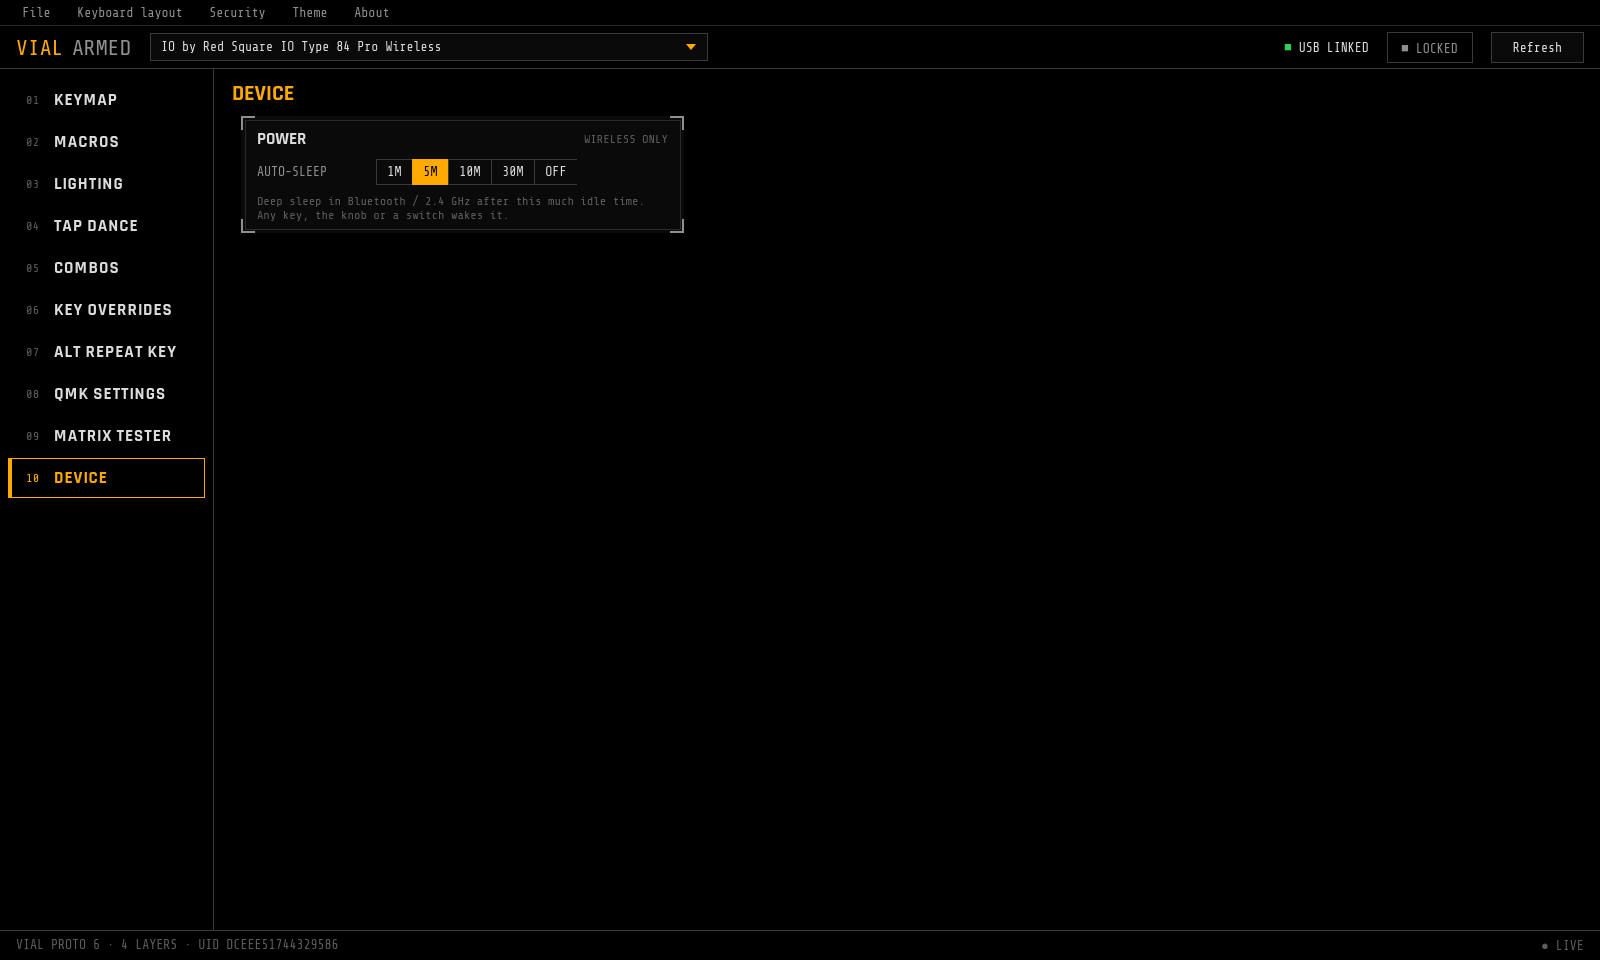
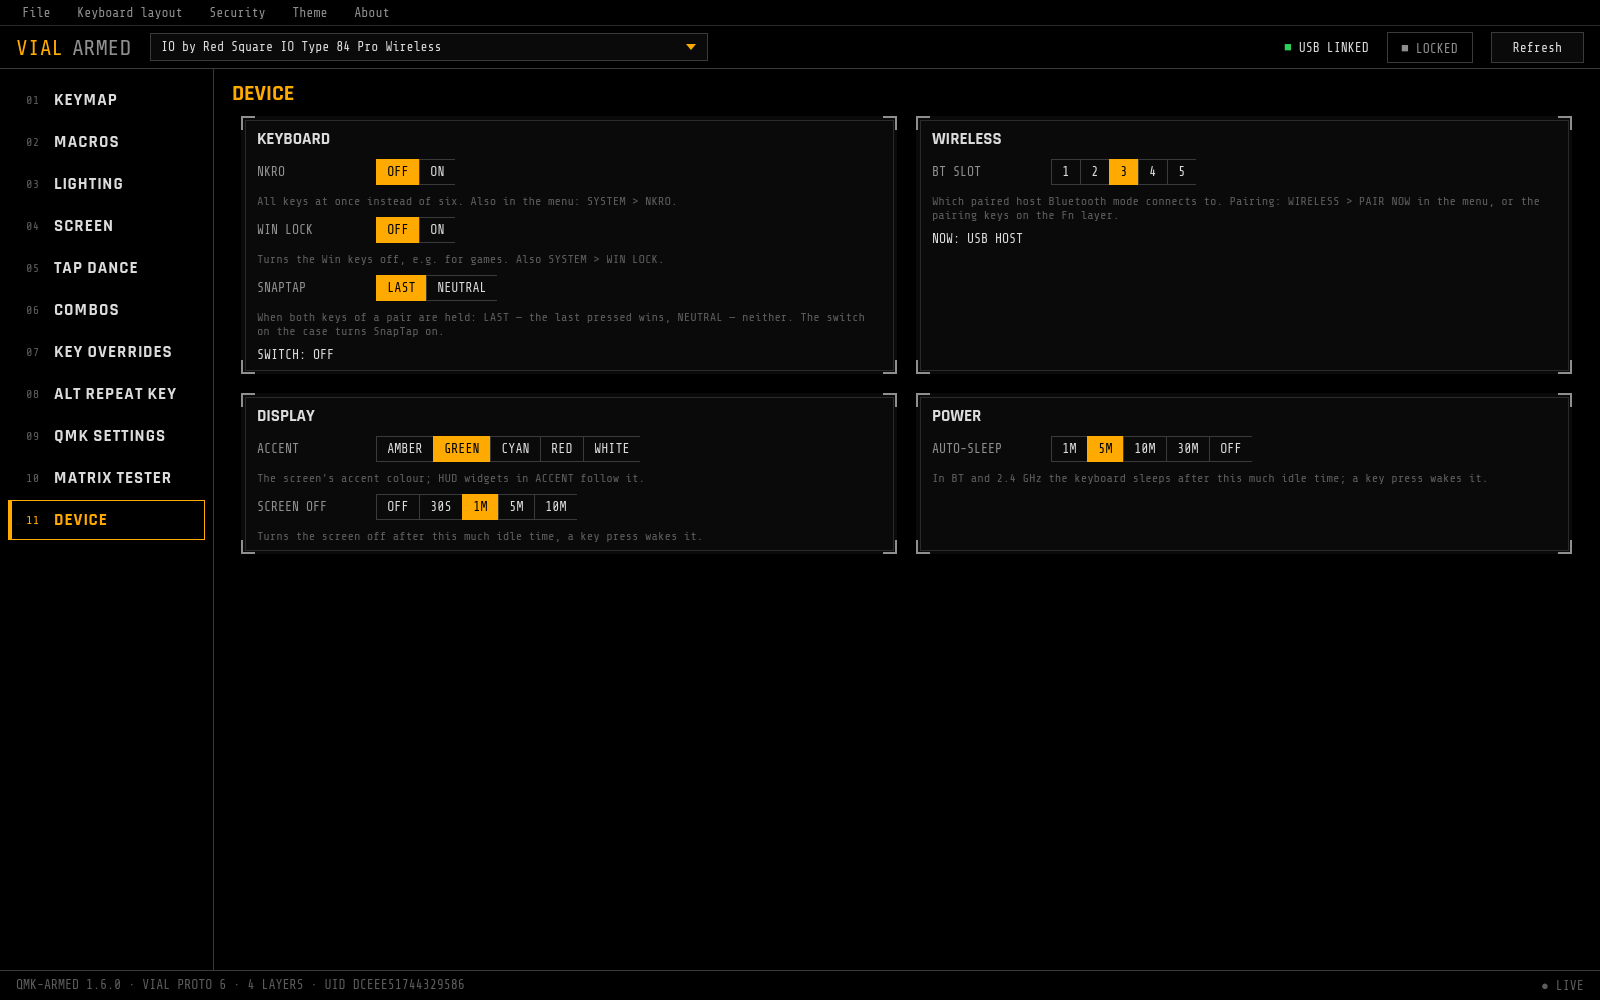
Lighting and Screen hold their related pages; Device gets the keyboard's menu settings
Themes moved under Lighting (EFFECTS / THEMES), the HUD under Screen (HUD / ANIMATION &
CLOCK) via a switch on top of the page. Device now sets NKRO, Win lock, SnapTap mode,
Bluetooth slot, the screen's accent and timeout and auto-sleep, showing the live link and
SnapTap switch state, for whatever the keyboard reports (qmk-armed 1.7).

diff --git a/src/main/python/editor/armed_device.py b/src/main/python/editor/armed_device.py
@@ -1,13 +1,18 @@
 # SPDX-License-Identifier: GPL-2.0-or-later
-# Device page for qmk-armed keyboards with auto-sleep
-
+# Device page: keyboard options from the on-screen menu that Vial doesn't cover (NKRO, Win lock, SnapTap,
+# Bluetooth slot, display accent and timeout, auto-sleep), shown for what the keyboard reports
+from PyQt5.QtCore import QTimer
 from PyQt5.QtWidgets import QHBoxLayout, QLabel, QGridLayout
 
 from editor.basic_editor import BasicEditor
-from protocol.qmk_armed import V_SLEEP, F_SLEEP
+from hud_layout import S_LINK, S_SNAPTAP
+from protocol.qmk_armed import V_SLEEP, V_NKRO, V_GUI_LOCK, V_SNAPTAP, V_ACCENT, V_SCREEN_OFF, V_BT_SLOT, \
+    F_SLEEP, F_KEYMAP, F_SNAPTAP, F_DISPLAY, F_BT_SLOT, F_HUD
 from vial_device import VialKeyboard
 from widgets.armed_controls import BracketFrame, Segmented
 from util import tr
+
+STATUS_MS = 2000
 
 
 class ArmedDevice(BasicEditor):
@@ -16,60 +21,143 @@ class ArmedDevice(BasicEditor):
         super().__init__()
         self.io = None
         self.sleep_order = []
+        self.rows = {}
+        self.status_timer = QTimer()
+        self.status_timer.timeout.connect(self.refresh_status)
 
-        power = BracketFrame("POWER")
+        self.keyboard_frame = BracketFrame("KEYBOARD")
+        self.nkro = self.row(self.keyboard_frame, V_NKRO, "NKRO", ["OFF", "ON"],
+                             "All keys at once instead of six. Also in the menu: SYSTEM > NKRO.")
+        self.gui = self.row(self.keyboard_frame, V_GUI_LOCK, "WIN LOCK", ["OFF", "ON"],
+                            "Turns the Win keys off, e.g. for games. Also SYSTEM > WIN LOCK.")
+        self.snaptap = self.row(self.keyboard_frame, V_SNAPTAP, "SNAPTAP", [],
+                                "When both keys of a pair are held: LAST — the last pressed wins, NEUTRAL — "
+                                "neither. The switch on the case turns SnapTap on.")
+        self.lbl_snaptap = self.status_label(self.keyboard_frame)
 
-        row = QHBoxLayout()
-        lbl = QLabel(tr("ArmedDevice", "AUTO-SLEEP"))
-        lbl.setObjectName("armedKey")
-        lbl.setFixedWidth(110)
-        self.sleep = Segmented()
-        self.sleep.changed.connect(self.on_sleep)
-        row.addWidget(lbl)
-        row.addWidget(self.sleep)
-        row.addStretch(1)
-        power.box.addLayout(row)
+        self.wireless_frame = BracketFrame("WIRELESS")
+        self.slot = self.row(self.wireless_frame, V_BT_SLOT, "BT SLOT", ["1", "2", "3", "4", "5"],
+                             "Which paired host Bluetooth mode connects to. Pairing: WIRELESS > PAIR NOW in the "
+                             "menu, or the pairing keys on the Fn layer.")
+        self.lbl_link = self.status_label(self.wireless_frame)
 
-        note = QLabel(tr("ArmedDevice", "Sleeps after this much idle time, a key press wakes it."))
-        note.setObjectName("armedHint")
-        power.box.addWidget(note)
-        power.box.addStretch(1)
+        self.display_frame = BracketFrame("DISPLAY")
+        self.accent = self.row(self.display_frame, V_ACCENT, "ACCENT", [],
+                               "The screen's accent colour; HUD widgets in ACCENT follow it.")
+        self.screen_off = self.row(self.display_frame, V_SCREEN_OFF, "SCREEN OFF", [],
+                                   "Turns the screen off after this much idle time, a key press wakes it.")
 
+        self.power_frame = BracketFrame("POWER")
+        self.sleep = self.row(self.power_frame, V_SLEEP, "AUTO-SLEEP", [],
+                              "In BT and 2.4 GHz the keyboard sleeps after this much idle time; a key press wakes it.")
+
+        for f in (self.keyboard_frame, self.wireless_frame, self.display_frame, self.power_frame):
+            f.box.addStretch(1)
         grid = QGridLayout()
         grid.setSpacing(18)
-        grid.addWidget(power, 0, 0)
+        grid.addWidget(self.keyboard_frame, 0, 0)
+        grid.addWidget(self.wireless_frame, 0, 1)
+        grid.addWidget(self.display_frame, 1, 0)
+        grid.addWidget(self.power_frame, 1, 1)
         grid.setColumnStretch(0, 1)
         grid.setColumnStretch(1, 1)
-        grid.setColumnStretch(2, 1)
         self.addLayout(grid)
         self.addStretch(1)
+
+    def row(self, frame, vid, label, labels, hint):
+        line = QHBoxLayout()
+        lbl = QLabel(tr("ArmedDevice", label))
+        lbl.setObjectName("armedKey")
+        lbl.setFixedWidth(110)
+        seg = Segmented(labels)
+        seg.changed.connect(lambda i, vid=vid: self.on_value(vid, i))
+        line.addWidget(lbl)
+        line.addWidget(seg)
+        line.addStretch(1)
+        frame.box.addLayout(line)
+        note = QLabel(tr("ArmedDevice", hint))
+        note.setObjectName("armedHint")
+        note.setWordWrap(True)
+        frame.box.addWidget(note)
+        self.rows[vid] = (lbl, seg, note)
+        return seg
+
+    def status_label(self, frame):
+        lbl = QLabel()
+        frame.box.addWidget(lbl)
+        return lbl
+
+    # ---- device
 
     def valid(self):
         if not isinstance(self.device, VialKeyboard):
             return False
         armed = self.device.keyboard.armed
-        return armed is not None and armed.has(F_SLEEP)
+        return armed is not None and any(armed.has(f) for f in (F_SLEEP, F_KEYMAP, F_SNAPTAP, F_DISPLAY, F_BT_SLOT))
 
     def rebuild(self, device):
         super().rebuild(device)
         self.io = device.keyboard.armed if self.valid() else None
         if self.io is None:
             return
-        minutes = self.io.sleep_minutes
+        io = self.io
+        minutes = io.sleep_minutes
         # firmware order is the Fn+S cycle; show ascending with OFF last
         self.sleep_order = sorted(range(len(minutes)), key=lambda i: minutes[i] or 10 ** 6)
         self.sleep.set_labels(["{}M".format(minutes[i]) if minutes[i] else "OFF" for i in self.sleep_order])
+        self.snaptap.set_labels(io.snaptap_modes)
+        self.accent.set_labels([c.name for c in io.accents])
+        self.screen_off.set_labels([name for _, name in io.screen_off])
         self.load()
 
     def load(self):
-        idx = self.io.get(V_SLEEP)
-        if idx in self.sleep_order:
-            self.sleep.set_current(self.sleep_order.index(idx))
+        io = self.io
+        for vid, (lbl, seg, note) in self.rows.items():
+            shown = vid in io.values and bool(seg.group.buttons())
+            for w in (lbl, seg, note):
+                w.setVisible(shown)
+            if not shown:
+                continue
+            v = io.get(vid)
+            if vid == V_SLEEP:
+                v = self.sleep_order.index(v) if v in self.sleep_order else -1
+            elif vid == V_BT_SLOT:
+                v -= 1
+            seg.set_current(v)
+        self.keyboard_frame.setVisible(any(v in io.values for v in (V_NKRO, V_GUI_LOCK, V_SNAPTAP)))
+        self.wireless_frame.setVisible(V_BT_SLOT in io.values)
+        self.display_frame.setVisible(any(v in io.values for v in (V_ACCENT, V_SCREEN_OFF)))
+        self.power_frame.setVisible(V_SLEEP in io.values)
+        self.refresh_status()
+
+    def refresh_status(self):
+        """ live state from the HUD sources, where the keyboard has them """
+        if self.io is None or not self.io.has(F_HUD):
+            self.lbl_snaptap.hide()
+            self.lbl_link.hide()
+            return
+        for lbl, source, fmt in ((self.lbl_snaptap, S_SNAPTAP, "SWITCH: {}"), (self.lbl_link, S_LINK, "NOW: {}")):
+            try:
+                r = self.io.hud_value(source)
+            except Exception:
+                r = None
+            lbl.setVisible(r is not None)
+            if r is not None:
+                lbl.setText(tr("ArmedDevice", fmt).format(r[4] or ("ON" if r[3] else "OFF")))
 
     def activate(self):
         if self.io is not None:
             self.io.reload_values()
             self.load()
+            self.status_timer.start(STATUS_MS)
 
-    def on_sleep(self, pos):
-        self.io.set(V_SLEEP, self.sleep_order[pos])
+    def deactivate(self):
+        self.status_timer.stop()
+
+    def on_value(self, vid, pos):
+        if vid == V_SLEEP:
+            pos = self.sleep_order[pos]
+        elif vid == V_BT_SLOT:
+            pos += 1
+        self.io.set(vid, pos)
+        self.refresh_status()

diff --git a/src/main/python/editor/editor_group.py b/src/main/python/editor/editor_group.py
@@ -1,0 +1,76 @@
+# SPDX-License-Identifier: GPL-2.0-or-later
+# Several pages under one side menu entry, picked with a switch on top (Lighting: effects / themes, ...)
+from PyQt5.QtWidgets import QHBoxLayout, QStackedWidget, QWidget
+
+from editor.basic_editor import BasicEditor
+from widgets.armed_controls import Segmented
+
+
+class EditorGroup(BasicEditor):
+
+    def __init__(self, parts):
+        """ parts: [(editor, label)] """
+        super().__init__()
+        self.parts = parts
+        self.shown = []  # indexes of the parts this keyboard has
+        self.current = 0
+        self.active = False
+
+        self.switch = Segmented()
+        self.switch.changed.connect(self.on_switch)
+        row = QHBoxLayout()
+        row.addWidget(self.switch)
+        row.addStretch(1)
+        self.stack = QStackedWidget()
+        for editor, _ in parts:
+            holder = QWidget()
+            holder.setLayout(editor)
+            self.stack.addWidget(holder)
+        self.addLayout(row)
+        self.addSpacing(6)
+        self.addWidget(self.stack, 1)
+
+    def valid(self):
+        return any(editor.valid() for editor, _ in self.parts)
+
+    def rebuild(self, device):
+        super().rebuild(device)
+        for editor, _ in self.parts:
+            editor.rebuild(device)
+        self.shown = [i for i, (editor, _) in enumerate(self.parts) if editor.valid()]
+        self.switch.set_labels([self.parts[i][1] for i in self.shown])
+        self.switch.setVisible(len(self.shown) > 1)
+        if self.current not in self.shown and self.shown:
+            self.current = self.shown[0]
+        self.stack.setCurrentIndex(self.current)
+        if self.current in self.shown:
+            self.switch.set_current(self.shown.index(self.current))
+
+    def select(self, editor):
+        """ shows the part holding `editor` """
+        for i, (e, _) in enumerate(self.parts):
+            if e is editor and i in self.shown:
+                self.on_switch(self.shown.index(i))
+                self.switch.set_current(self.shown.index(i))
+
+    def on_switch(self, pos):
+        new = self.shown[pos]
+        if new == self.current:
+            return
+        if self.active:
+            self.parts[self.current][0].deactivate()
+        self.current = new
+        self.stack.setCurrentIndex(new)
+        if self.active:
+            self.parts[new][0].activate()
+
+    def activate(self):
+        self.active = True
+        self.parts[self.current][0].activate()
+
+    def deactivate(self):
+        self.active = False
+        self.parts[self.current][0].deactivate()
+
+    def on_container_clicked(self):
+        self.parts[self.current][0].on_container_clicked()

diff --git a/src/main/python/protocol/qmk_armed.py b/src/main/python/protocol/qmk_armed.py
@@ -18,10 +18,13 @@ SUB_INFO, SUB_LIST, SUB_GET, SUB_SET, SUB_SAVE, \
     SUB_HUD_INFO, SUB_HUD_SOURCE, SUB_HUD_VALUE, SUB_HUD_FONT, SUB_HUD_PALETTE, SUB_HUD_READ, SUB_HUD_WRITE, \
     SUB_HUD_APPLY, SUB_HUD_REVERT, SUB_HUD_PUSH, SUB_HUD_TEXT = range(29)
 L_EFFECTS, L_COLORS, L_STRIP_MODES, L_SLEEP, L_LEDS = range(5)
-L_COUNT = 5
+L_COUNT = 5  # sized in INFO; the lists below are read until the keyboard answers 0xFF
+L_SNAPTAP_MODES, L_ACCENTS, L_SCREEN_OFF = range(5, 8)
+LIST_MAX = 32
 
 V_ENABLED, V_EFFECT, V_COLOR2, V_FN_COLOR, V_STRIP_MODE, V_STRIP_COLOR, V_STRIP_CAPS, V_SLEEP, \
-    V_HUE, V_SAT, V_VAL, V_SPEED, V_SCREEN, V_CLOCK = range(14)
+    V_HUE, V_SAT, V_VAL, V_SPEED, V_SCREEN, V_CLOCK, V_NKRO, V_GUI_LOCK, V_SNAPTAP, V_ACCENT, V_SCREEN_OFF, \
+    V_BT_SLOT = range(20)
 
 F_RGB_MATRIX = 1 << 0
 F_COLOR2 = 1 << 1
@@ -32,6 +35,10 @@ F_SCREEN = 1 << 5
 F_THEMES = 1 << 6
 F_CLOCK = 1 << 7
 F_HUD = 1 << 8
+F_KEYMAP = 1 << 9
+F_SNAPTAP = 1 << 10
+F_DISPLAY = 1 << 11
+F_BT_SLOT = 1 << 12
 
 FEATURE_VALUES = {
     F_RGB_MATRIX: (V_ENABLED, V_EFFECT, V_HUE, V_SAT, V_VAL, V_SPEED),
@@ -41,6 +48,10 @@ FEATURE_VALUES = {
     F_SLEEP: (V_SLEEP,),
     F_SCREEN: (V_SCREEN,),
     F_CLOCK: (V_CLOCK,),
+    F_KEYMAP: (V_NKRO, V_GUI_LOCK),
+    F_SNAPTAP: (V_SNAPTAP,),
+    F_DISPLAY: (V_ACCENT, V_SCREEN_OFF),
+    F_BT_SLOT: (V_BT_SLOT,),
 }
 
 EFFECT_COLOR2 = 0x01
@@ -156,6 +167,9 @@ class QmkArmed:
         self.strip_modes = []
         self.sleep_minutes = []
         self.leds = []
+        self.snaptap_modes = []
+        self.accents = []  # ArmedColor
+        self.screen_off = []  # (seconds, name)
         self.max_brightness = 255
         self.values = dict()
         self.themes = None  # Theme per slot once read, shared by the Lighting and Themes pages
@@ -233,6 +247,14 @@ class QmkArmed:
         self.strip_modes = [_cstr(d) for d in lst(L_STRIP_MODES)]
         self.sleep_minutes = [d[0] for d in lst(L_SLEEP)]
         self.leds = [ArmedLed(d[0], d[1], d[2], d[3], d[4]) for d in lst(L_LEDS)]
+
+        def open_list(kind, feature):
+            if not self.has(feature):
+                return []
+            return self.cached("list{}".format(kind), lambda: self._list(kind, LIST_MAX))
+        self.snaptap_modes = [_cstr(d) for d in open_list(L_SNAPTAP_MODES, F_SNAPTAP)]
+        self.accents = [ArmedColor(d[0], d[1], _cstr(d[2:])) for d in open_list(L_ACCENTS, F_DISPLAY)]
+        self.screen_off = [(d[0] | d[1] << 8, _cstr(d[2:])) for d in open_list(L_SCREEN_OFF, F_DISPLAY)]
         self.reload_values()
 
     def reload_values(self):

diff --git a/src/main/python/main_window.py b/src/main/python/main_window.py
@@ -31,6 +31,7 @@ from editor.armed_device import ArmedDevice
 from editor.armed_screen import ArmedScreen
 from editor.armed_themes import ArmedThemes
 from editor.armed_hud import ArmedHud, AgentHost
+from editor.editor_group import EditorGroup
 from tabbed_keycodes import TabbedKeycodes
 from editor.tap_dance import TapDance
 from unlocker import Unlocker
@@ -100,10 +101,12 @@ class MainWindow(QMainWindow):
         self.armed_themes = ArmedThemes(self.layout_editor)
         self.hud_agent = AgentHost()
         self.armed_hud = ArmedHud(self.hud_agent)
+        self.lighting_group = EditorGroup([(self.armed_lighting, "EFFECTS"), (self.armed_themes, "THEMES")])
+        self.screen_group = EditorGroup([(self.armed_hud, "HUD"), (self.armed_screen, "ANIMATION & CLOCK")])
 
         self.editors = [(self.keymap_editor, "Keymap"), (self.layout_editor, "Layout"), (self.macro_recorder, "Macros"),
-                        (self.rgb_configurator, "Lighting"), (self.armed_lighting, "Lighting"),
-                        (self.armed_themes, "Themes"), (self.armed_screen, "Screen"), (self.armed_hud, "HUD"),
+                        (self.rgb_configurator, "Lighting"), (self.lighting_group, "Lighting"),
+                        (self.screen_group, "Screen"),
                         (self.tap_dance, "Tap Dance"), (self.combos, "Combos"),
                         (self.key_override, "Key Overrides"), (self.alt_repeat_key, "Alt Repeat Key"),
                         (self.qmk_settings, "QMK Settings"), (self.matrix_tester, "Matrix tester"),
@@ -487,8 +490,8 @@ class MainWindow(QMainWindow):
 
         for e in [self.layout_editor, self.keymap_editor, self.firmware_flasher, self.macro_recorder,
                   self.tap_dance, self.combos, self.key_override, self.alt_repeat_key,
-                  self.qmk_settings, self.matrix_tester, self.rgb_configurator, self.armed_lighting,
-                  self.armed_device, self.armed_screen, self.armed_themes, self.armed_hud]:
+                  self.qmk_settings, self.matrix_tester, self.rgb_configurator, self.lighting_group,
+                  self.armed_device, self.screen_group]:
             e.rebuild(self.autorefresh.current_device)
         self.hud_agent.set_device(self.autorefresh.current_device)
         self.update_armed_status()

diff --git a/README.md b/README.md
@@ -22,13 +22,13 @@ metrics.
 |---|---|
 | 🖤 **Armed theme** | Black panels, amber accent, Rajdhani and Share Tech Mono, square keycaps, numbered side menu — the design code of the keyboard's screen. The stock Vial themes are still under **Theme** |
 | 🌈 **Lighting** | Every effect the firmware has, including custom ones — on the IO Type 84 Pro, 7 **two-colour** effects (TWO TONE, GRADIENT 2, CROSSFADE 2, SCANNER 2, STARLIGHT 2, REACTIVE 2, RIPPLE 2); COLOR and COLOR 2, brightness, speed |
-| 🎨 **Themes** | Build your own lighting from up to 8 layers — solid, gradient, rainbow, pulse, wave, sparkle, reactive, ripple and per-key paint. Click or drag over keys to choose where a layer shows, or pick a group (letters, F-row, mods, arrows, WASD, the keys bound on Fn). Set the direction on a dial or spread from a key, blend layers, show one only with Caps Lock or Fn. Every change is live on the keyboard; undo / redo, presets, import / export as JSON |
+| 🎨 **Themes** | Under **Lighting**: build your own lighting from up to 8 layers — solid, gradient, rainbow, pulse, wave, sparkle, reactive, ripple and per-key paint. Click or drag over keys to choose where a layer shows, or pick a group (letters, F-row, mods, arrows, WASD, the keys bound on Fn). Set the direction on a dial or spread from a key, blend layers, show one only with Caps Lock or Fn. Every change is live on the keyboard; undo / redo, presets, import / export as JSON |
 | 👁 **Live preview** | The selected effect runs on the keyboard layout with the firmware's own maths, LED positions and flags. Reactive effects press keys by themselves; click a key to press it |
 | 🔦 **Fn overlay** | Pick the FN COLOR and hold **HOLD FN** to see which keys light up while Fn is held |
 | 📏 **Light bar** | Mode (WPM, WPM bar, battery, link, scanner, off), colour and Caps Lock alert, with a 9-LED preview |
-| 💤 **Device** | Auto-sleep timer, with the options the keyboard offers |
+| ⚙ **Device** | NKRO, Win lock, SnapTap mode, Bluetooth slot, the screen's accent colour and timeout, auto-sleep — what the keyboard's own menu sets, shown for what the keyboard has |
 | 🎞 **Screen** | Put a picture, GIF or video (with ffmpeg installed) on the keyboard's screen: fit, frame rate, slideshow, a preview of exactly what gets uploaded, progress with time left. Switch the main screen between the HUD and the animation; save and restore what's stored, including the stock animation. Sets the keyboard's clock from this computer when it connects, 24H / 12H / off |
-| 📟 **HUD** | Lay out the keyboard's main screen from widgets — text with values, bars, graphs, indicators, the battery icon, frames and lines, multi-line text — on a preview drawn pixel for pixel like the keyboard draws it, with its own fonts and colour roles, so the result keeps the look of the firmware. Drag with smart guides, resize, nudge with arrows; select several and align, distribute or match their sizes; reorder in the widget list; copy / paste, undo / redo, presets (keyboard default, system monitor, console, big clock), import / export as JSON. Live on the keyboard as you edit, SAVE keeps it |
+| 📟 **HUD** | Under **Screen**: lay out the keyboard's main screen from widgets — text with values, bars, graphs, indicators, the battery icon, frames and lines, multi-line text — on a preview drawn pixel for pixel like the keyboard draws it, with its own fonts and colour roles, so the result keeps the look of the firmware. Drag with smart guides, resize, nudge with arrows; select several and align, distribute or match their sizes; reorder in the widget list; copy / paste, undo / redo, presets (keyboard default, system monitor, console, big clock), import / export as JSON. Live on the keyboard as you edit, SAVE keeps it |
 | 📡 **HUD agent** | Feeds the HUD with this computer's CPU / GPU load and temperature, RAM, VRAM, swap, network, disk, load average and laptop battery, plus the first number or the whole output of any command or script (Cyrillic is spelled in Latin letters). Runs inside Vial Armed, or without a window: `vial-armed --agent`, with a RUN AT LOGIN switch on Linux. Over USB and the 2.4 GHz dongle |
 | ⌨ **Everything from Vial** | Keymap and knobs on all layers, macros, tap dance, combos, key overrides, QMK settings, matrix tester |
 | 🧭 **Status** | Link and lock state in the top bar, qmk-armed version, Vial protocol, layer count and keyboard UID in the footer |
@@ -79,7 +79,7 @@ that Vial Armed probes on connect:
 |---|---|
 | `INFO` | `ARMD` magic, protocol and firmware version, **feature flags**, list sizes, maximum brightness |
 | `LIST` | effects (QMK id, flags, name), colour presets, light bar modes, sleep options, LEDs (matrix position, x/y, flags) |
-| `GET` / `SET` | lighting on/off, effect, hue, saturation, brightness, speed, COLOR 2, FN COLOR, light bar mode / colour / Caps alert, auto-sleep, main screen, clock format |
+| `GET` / `SET` | lighting on/off, effect, hue, saturation, brightness, speed, COLOR 2, FN COLOR, light bar mode / colour / Caps alert, auto-sleep, main screen, clock format, NKRO, Win lock, SnapTap mode, screen accent and timeout, Bluetooth slot |
 | `SAVE` | write hue / saturation / brightness / speed to EEPROM (sliders apply them live without wearing the flash) |
 | `SCREEN_*` | screen size and what's stored; upload an animation as a compressed stream (pipelined, ~26 KiB/s over Vial's 32-byte reports); read it back |
 | `THEME_*` | theme slots and their layout; read, write live, save, revert |
@@ -87,7 +87,7 @@ that Vial Armed probes on connect:
 | `HUD_*` | the HUD's sources, colour roles and fonts (for the preview); read, write live, store or revert the layout; push numbers and text from the host (no reply, so the agent never gets in the way) |
 
 The feature flags decide what's shown: RGB Matrix opens the Lighting page and replaces the VialRGB one,
-COLOR 2, FN COLOR and LIGHT BAR add their panels, auto-sleep opens the Device page, a screen opens the Screen page, theme slots open the Themes page, a HUD opens the HUD page. Effect names, colours
+COLOR 2, FN COLOR and LIGHT BAR add their panels, auto-sleep, NKRO, SnapTap and the like fill the Device page, theme slots add THEMES to Lighting, a screen opens the Screen page with HUD and ANIMATION & CLOCK. Effect names, colours
 and the LED layout come from the keyboard too, so the GUI hardcodes nothing about a particular board.
 Without qmk-armed, Vial Armed falls back to the stock Vial lighting page.
 
